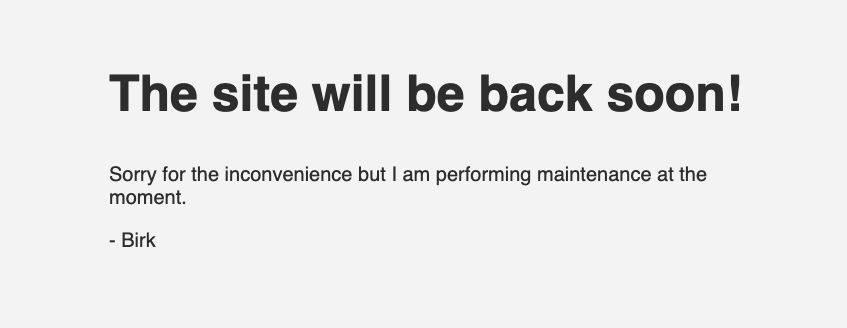
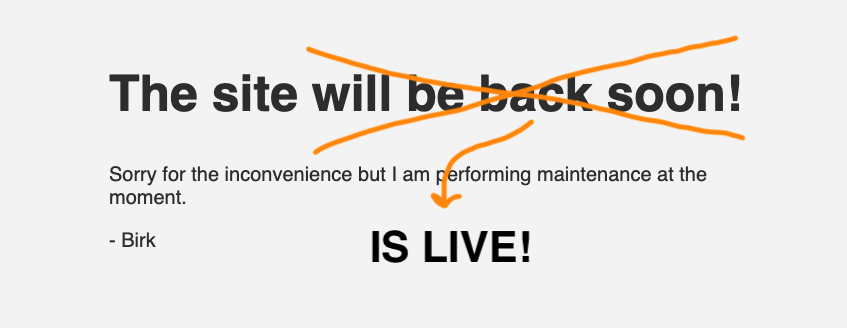
Deleted all stock content and creted 1. content

diff --git a/page.html b/page.html
@@ -26,9 +26,8 @@
       </h1>
       <nav>
         <a href="#blog">Blog</a>
-        <a href="#photos">Photos</a>
         <a href="#portfolio">Portfolio</a>
-        <a href="#hidden-page">dev</a>
+        <a href="#CV">CV</a>
       </nav>
     </header>
     <main>
@@ -36,78 +35,73 @@
       <!---------------- HOME ------------------>
 
       <section id="home">
-        <p>Wellcome! I'm Birk, or Mathias, depending on formalyty. I am a software Engineer student at  <a href="">Aarhus University</a>. This is my small website documenting projects and others things i find intresting.</p>
-       
-        <p>Under portfolio you can read about varius ungoing and completed projekt, from school, work and passtion. I have yet to dicede what i whant to fill my 
+        <h2>Wellcome!</h2>
+        <p> I'm Birk, or Mathias, depending on formalyty. </p>
+        <p> On this site, you con find various things i thoght my be intresting to share!</p>
+        <p> On the <a href="#blog">blog</a> i will post small post about, really any thing i find intresting at the moment.</p>
+        <p> The <a href="#portfolio">portfolio</a> and <a href="#CV">CV</a> will display the cool things im doing at the moment, or have done in the past.<p>
+
+
+          
+          
         </p>
+        <h2>A little more about me</h2>
+        <div>
+          <p> Everything in my life seem to circle around tree main passions, Technology, nature and people.
+             <br>So far in my proffitional life, the people have held the main spotligt.
+          </p>
+          <p></p>
+          First combined with technology, where I was a certified event coordinator, ran a small department hosting a multitude of events centred around teaching game development.<br> 
+
+          Then combined with nature, where I was a professional ski instructor at <a href="https://www.sunpeaksresort.com/"> Sun Peaks, Canada BC,</a> both thought skiing and hosted and executes weekly events on the mountain.<br>
+          
+          Now my focus has shifted to technology, where I'm currently enrolled as a software engineering student at <a href="https://bachelor.au.dk/softwareteknologi">Aarhus University</a>
+
+        </div>
+        <h3>Contact</h3>
         <p>
-          This website is a single <abbr title="Hypertext Markup Language">HTML</abbr> file and ripped directly from <a href="https://john-doe.neocities.org/">John Doe</a>. 
-          All credit for the fast deployment goes to the folks be
-         </p>
-
-
+          email: <a href="mailto:web@mbirk.dk">web@mbirk.dk</a>
+          Sorry, i dont rally have any social media...
+        </p>
+        <h2>Behind the website</h2>
+        <p>
+          This website is a single <abbr title="Hypertext Markup Language">HTML</abbr> file and ripped directly from <a href="https://john-doe.neocities.org/">John Doe's website</a>. 
+          (be gentle, they said it was ok). 
+          This is my first real step into website and webdevolopment. So as of now, most credit goes to <a href="http://john-doe.neocities.org/">people</a> who wrote and distributed john-doe's website
+        </p>
        
-
-      </section>
-
-      <!---------------- PAGE  ----------------->
-
-      <section id="page">
 
       </section>
 
       <!---------------- BLOG ------------------>
-
-      
-      
-      
       <section id="blog">
-        
-        <article>
+
+
+        <!-- ------Post 1------ --> 
+        <article label="post1">
           <h2>
             My first website!
           </h2>
           <p>
-            Taking the first part of a udemy couase and finding a random <a href="https://news.ycombinator.com/">hacker news</a> post<label for="fn1">1</label><input type="checkbox" id="fn1">
-            <small> <!-- foot note one! -->
-              I sadly cant find the <a href="https://news.ycombinator.com">hacker news</a> post any more..
-            </small>
-            , lead me to finaly starting the construction of mBirk.dk. 
-            The <a href="">site under construction</a> htlm has been sitting on the domain since probably 2018.
-            <img src="page_files/under_construction.png" alt="screenshot of the under construction website previously hosted on mbirk.dk"/>
+            This post makes the first iteration of my first website! Really existing stuff. <br>
+           Not that the technology I have used is very interesting, as the front page stated. <br>
+           The website is a single HTML file, with a little CSS, that I did not write. <br>
+ 
+           But I'm exited that I now have a place to share things I create and achieved!
+ 
+           The road stated with an <a href="https://www.udemy.com/course/the-web-developer-bootcamp/"> Udemy Course</a>, were completed the HTML part. Then half a year later, a random <a href="https://news.ycombinator.com/">hacker news</a> post<label for="fn1">1</label><input type="checkbox" id="fn1">
+           <small> <!-- footnote one! -->
+             I sadly can't find the <a href="https://news.ycombinator.com">hacker news</a> post any more…
+           </small>
+           Finally, paved the way for getting content on my domain, that has been sitting idle since probably 2017!
+ 
+           <img src="page_files/under_construction.png" alt="screenshot of the under construction website previously hosted on mbirk.dk"/>
+ 
+           Again, thanks to <a href="http://john-doe.neocities.org/" target="_blank" rel="noopener">John Doe's website</a> for providing the framework for this site.
 
-            Now thanks to <a href="http://john-doe.neocities.org/" target="_blank" rel="noopener">john doe</a> i had no excuse left. 
-          
+
           
           </p>
-
-      </section>
-
-      <!---------------- PHOTOS ---------------->
-
-      <section id="photos">
-
-        <p>An example of a photo gallery with a <abbr title="Cascading Style Sheets">CSS</abbr>-only lightbox.</p>
-
-        <!-- You can use this grid of images in any page -->
-
-        <div class="grid">
-          <a href="#img-01"><img loading="lazy" alt="" src="page_files/300x300.png"></a>
-          <a href="#img-02"><img loading="lazy" alt="" src="page_files/400x300.png"></a>
-          <a href="#img-03"><img loading="lazy" alt="" src="page_files/300x400.png"></a>
-          <a href="#img-04"><img loading="lazy" alt="" src="page_files/300x300.png"></a>
-          <a href="#img-05"><img loading="lazy" alt="" src="page_files/400x300.png"></a>
-          <a href="#img-06"><img loading="lazy" alt="" src="page_files/300x400.png"></a>
-          <a href="#img-07"><img loading="lazy" alt="" src="page_files/300x300.png"></a>
-          <a href="#img-08"><img loading="lazy" alt="" src="page_files/400x300.png"></a>
-          <a href="#img-09"><img loading="lazy" alt="" src="page_files/300x400.png"></a>
-          <a href="#img-10"><img loading="lazy" alt="" src="page_files/300x300.png"></a>
-          <a href="#img-11"><img loading="lazy" alt="" src="page_files/400x300.png"></a>
-          <a href="#img-12"><img loading="lazy" alt="" src="page_files/300x400.png"></a>
-          <a href="#img-13"><img loading="lazy" alt="" src="page_files/300x300.png"></a>
-          <a href="#img-14"><img loading="lazy" alt="" src="page_files/400x300.png"></a>
-          <a href="#img-15"><img loading="lazy" alt="" src="page_files/300x400.png"></a>
-        </div>
 
       </section>
 
@@ -117,26 +111,24 @@
       <section id="portfolio">
 
         <div class="slides">
-          
-          <figure>
-            <h2>Solar Sailors</h2>
-            <p>I attended a highschool called Game College in denmark. Here we had the opportunity to learn gamedevoloment though projoct. 
-              we 
-              Our team was 10 man strong and the project konkluded with a working prototype of the game, with the core multiplayer game mechamincs.</p>
-              Read m
 
-          </figure>
-          <figure>
-            <img loading="lazy" alt="" src="page_files/1000x1000.png">
-            <figcaption>…or image captions</figcaption>
-          </figure>
-          <figure style="background:#fdcb39">
-            <img loading="lazy" alt="" src="page_files/3000x4000.png">
-            <figcaption>add a solid background</figcaption>
-          </figure>
-          <figure class="cover">
-            <img loading="lazy" alt="" src="page_files/design.jpg">
-            <p style="color:#fff">or go full bleed</p>
+          <figure> <!-- Solar Sailors Slide--> 
+            <h2>Solar Sailors</h2>
+            <p>
+              I attended a high school called <a href="https://videndjurs.dk/game-college"><a href="https://videndjurs.dk/game-college">Game College</a></a>  that teaches Game Developing on top of the normal <a href="https://www.denmarkeducation.info/tests/k-12-tests/higher-technical-examination-for-danish-upper-secondary-or-high-school-students.html"> technical high school</a> curriculum, though multiple projects each year. <br>
+             Our graduation project was the game Solar Sailors, my primary responsibility was aligning the team with the process, and making sure we meet our requirements and deadlines. <br>
+             The Project spanned 3 mounts, and the Team consists of 6 programmers, 3 artists and me as the primary producer. <br>
+             The goal was to create a fun and engaging game where the players had to work together to win. <br>
+            
+          <a href="https://www.youtube.com/watch?v=pGKM5-outvI"> <img loading="lazy" alt="" src="page_files/Solar_Sailors.png"></a>
+          Click the image and watch our MVP in action! <br>
+          Portfolios of others from the project: <br>
+          <a href="https://www.wanieru.com/#featured,solarsailors">Daniel Hansen</a>
+          <a href="https://sebba.dk/solarsailors.php">Sebastian Hyberts</a>
+ 
+
+
+
           </figure>
         </div>
 
@@ -149,12 +141,84 @@
 
       </section>
 
-      <!-- HIDDEN PAGE -->
+       <!---------------- CV ----------------->
+
+      <section id="CV">
+        <article>
+          <h2>Working experience</h2>
+          <h3>2021 - Now: Student Staff at <a href="https://orbitlab.au.dk/">ORBITLab</a></h3>
+            <p>Combining my past in events, with my tech future at the tech hub ORBITLab <br>Responsibilities ranging from trash-duty to teaching, promoting, hosting and supporting events, public speaking and much more.</p>
+          <h3>2020 - 2021: Farm assistant, Hedenmink</h3>
+          <h3>Summer 2020: Golf course Marshall, <a href="https://www.sunpeaksresort.com/">Sun Peaks resort</a></h3>
+          <h3>spring 2020: Prep contactor, <a href="https://www.lyonslandscaping.com/">Lyons Landscaping</a></h3>
+          <h3> 2019 - 2020: Ski instructor, <a href="https://www.sunpeaksresort.com/">Sun Peaks resort</a></h3>
+          <h3> Fall 2019: factory floor worker, <a href="https://www.tenax.dk/">Tenax Sild</a> </h3>
+          <h3> 2017 - 2019: Event Coordinator, Innovation department <a href="https://videndjurs.dk/"> Viden Djurs</a></h3>
+            <p>Responsible for developing and execution of a content marketing strategy rooted in events, as well as day to day operational tasks.</p>
+          <h3>Raised on farm - Hard work paves the way</h3>
+            <p>Born and raised by hard-working parents that involved us at an early age.</p>
+  
+         
+        </article>
+        <article>
+          <h2>Education</h2>
+            <h3>2021 - now: SWT student at <a href="https://bachelor.au.dk/softwareteknologi">Aarhus University</a></h3>
+              <p>I'm currently enrolled as a Software technology engineer student at the department of electronic and computer science at Aarhus University. <br>
+              The goal of this education is to shape well round engineering that knows the in and outs of software, <br>
+              on everything from micro-processers and embedded systems to web applications and distributed systems
+            </p>
+            <h3>2019 - 2020: <a href="https://www.snowpro.com/en/">Level 2 CASI Ski instructor</a> and <a href="https://www.avalanche.ca/training"> ASI level 1</a></h3>
+                <p>In the ski season 2019-2020, I trained as a ski instructor and achieved level 2 in the <a href="https://www.snowpro.com/en/"> Canadian ski instructor alliance</a>, <br>
+                As well as further training in mountain safety with a <a href="https://snowminds.com/become-a-ski-instructor/off-piste-course-in-canada/">20 day back-country navigation course
+  </a> Resulting in the first level of the avalanche Canada safety course.</p>
+                </p>
+            <h3>2018 - 2019 : Vocational Training as an event Coordinator</h3>
+                <p>As a part of my work for Viden Djurs, I trained as an event coordinator at IBC Kolding.<br>
+                  I completed the two-year program in one yea
+                </p>
+            <h3>2013 - 2016: technical high school</h3>
+                <p>I attended High school at <a href="https://videndjurs.dk/game-college">Game College</a>, Viden Djurs. <a href="https://videndjurs.dk/game-college">Game College</a> is a boarding school, that on top of the technical high school curriculum teaches game development.
+                  In various teams, I was involved in finishing 5 one and a half to three mounts long projects. <br>
+                  I would mostly work as a project coordinator and backup artist.
+                </p>
+        </article>
+        <article>
+          <h2>Involvement and volunteering</h2>
+            <h3>Aarhus University - representative for my year</h3>
+              <p>Since my first semester at AU, I have been the representative for my year on the education Committee.<br>
+              The education committee is responsible for ensuring that the education is as good as possible.
+              Here i provided direct feedback from the student perspective as well as providing fresh ideas on how to better our education</p>
+            <h3><a href="https://www.sunpeaksresort.com/">Sun Peaks resort</a>: Guide, host and leader for starlight descent and fondue</h3>
+              <p>I volunteered as a guide and host for the starlight descent and fondue at <a href="https://www.sunpeaksresort.com/">Sun Peaks resort</a> and was later promoted to paid staff and coordinator and presented the event to the guest.</p>
+            <h3><a href="https://videndjurs.dk/game-college">Game College</a>, Viden Djurs</h3>
+              <p>As a student, I cared deeply about my school. This caused me to involved with many aspects of the school</p>
+              <p><b>Tutor and coordinator of tutors</b> <br>From my first Semester, I volunteered as a tutor, guiding primary school students visiting our school.<br>
+                From 3. Semester I was the primary student coordinator, responsible for requirements of tutors, shifts and activities.</p>
+              <p><b>Volunteer for marketing</b> <br>From my second semester, I attended a between 1 and 4 of education exhibitions per semester as a part of the marketing team<br>
+              This eventually lead to my job as an event coordinator after I graduated</p>
+            <p><b>Student Board</b><br>
+                I was my class representative on the student board</p>
+  
+   
+           
+  
+        </article>
+  
+ 
+ 
+
+      </section>
+
+      <!-- tamplates PAGE -->
 
       <section id="hidden-page">
         <p>This page is not referenced in the menu, for example.</p>
 
         <p><a href="#home">← back</a></p>
+        <p><a href="#template_photogrid">← photo grid </a></p>
+        <p><a href="#template_blog_post">← blog post </a></p>
+        <p><a href="#home">← back</a></p>
+
         <p>This setup<label for="fn3">1</label><input type="checkbox" id="fn3"><small>
 
           It might get unpractical for more than a handful of pages, but it comes in handy if all you need is a simple website.
@@ -182,8 +246,59 @@
 
 
       </section>
+      
+      <!-- template for photos grid -->
+
+      <section id="template_photogrid">
+        <p>An example of a photo gallery with a <abbr title="Cascading Style Sheets">CSS</abbr>-only lightbox.</p>
+
+        <!-- You can use this grid of images in any page -->
+
+        <div class="grid">
+          <a href="#img-01"><img loading="lazy" alt="" src="page_files/300x300.png"></a>
+          <a href="#img-02"><img loading="lazy" alt="" src="page_files/400x300.png"></a>
+          <a href="#img-03"><img loading="lazy" alt="" src="page_files/300x400.png"></a>
+          <a href="#img-04"><img loading="lazy" alt="" src="page_files/300x300.png"></a>
+          <a href="#img-05"><img loading="lazy" alt="" src="page_files/400x300.png"></a>
+        </div>
+
+      </section>
+
+      <section id="template_blog_post">
+
+
+
+      </section>
+      
+      <!-- john doe portfoio template -->
+
+      <section id="johndoe_portfolio_template">
+        <div class="slides">
+          <figure><img loading="lazy" alt="" src="img/4000x3000.png"></figure>
+          <figure><img loading="lazy" alt="" src="img/3000x4000.png"></figure>
+          <figure><img loading="lazy" alt="" src="img/4000x3000.png"></figure>
+          <figure>
+            <p>You could also have text over here…</p>
+          </figure>
+          <figure>
+            <img loading="lazy" alt="" src="img/1000x1000.png">
+            <figcaption>…or image captions</figcaption>
+          </figure>
+          <figure style="background:#fdcb39">
+            <img loading="lazy" alt="" src="img/3000x4000.png">
+            <figcaption>add a solid background</figcaption>
+          </figure>
+          <figure class="cover">
+            <img loading="lazy" alt="" src="img/design.jpg">
+            <p style="color:#fff">or go full bleed</p>
+          </figure>
+        </div>
+      </section>
 
     </main>
+
+
+
 
     <!------------- HI-RES IMAGES----------- -->
 

diff --git a/page_files/style.css b/page_files/style.css
@@ -82,16 +82,23 @@ a:hover {
 }
 
 section h1 {
-  font-size: 1em;
+  font-size: 1.5em;
   margin: 0 0 1em 0;
 }
 
 h2, h3, h4 {
-  font-size: 1em;
-  font-weight: 600;
+  font-weight: 700;
   margin: 1.6em 0 .6em 0;
 }
-
+h2 {
+  font-size: 1.3em;
+}
+h3 {
+  font-size: 1.1em;
+}
+h3 {
+  font-size: 1em;
+}
 p, ul, ol, article {
   max-width: 60ch; /* Limit line-length to 60 characters */
   margin-bottom: .6em;
